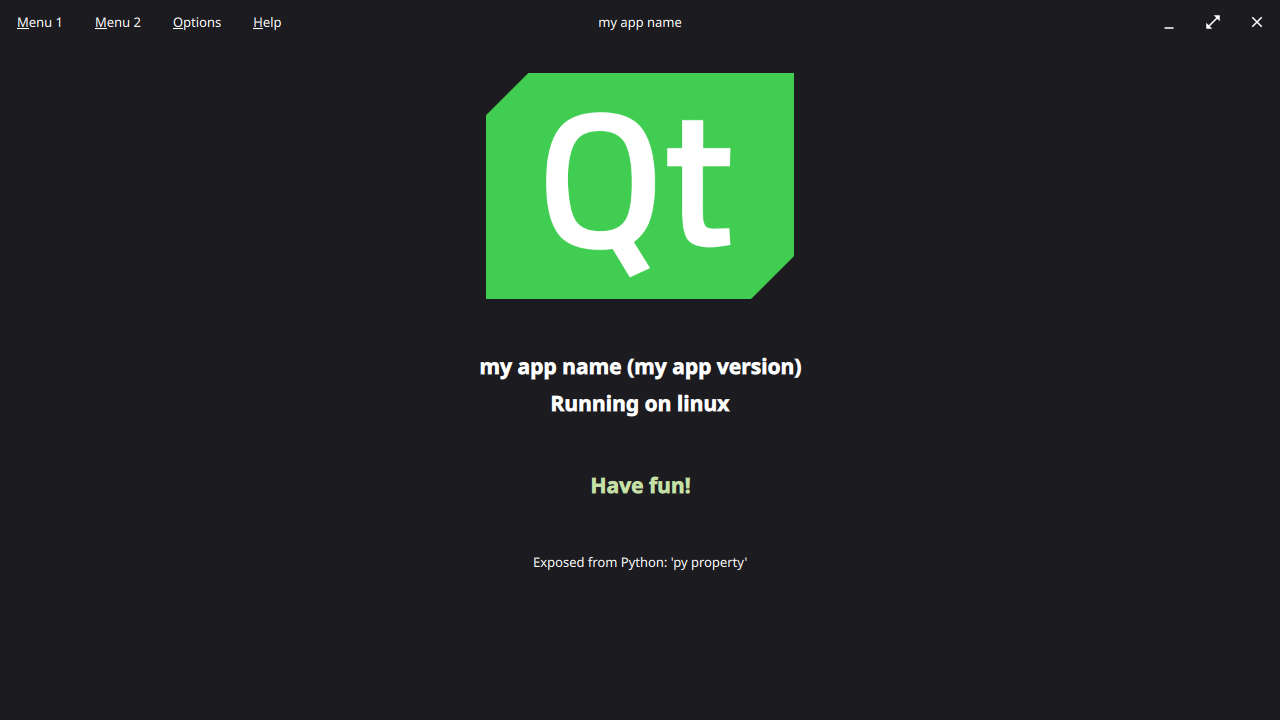
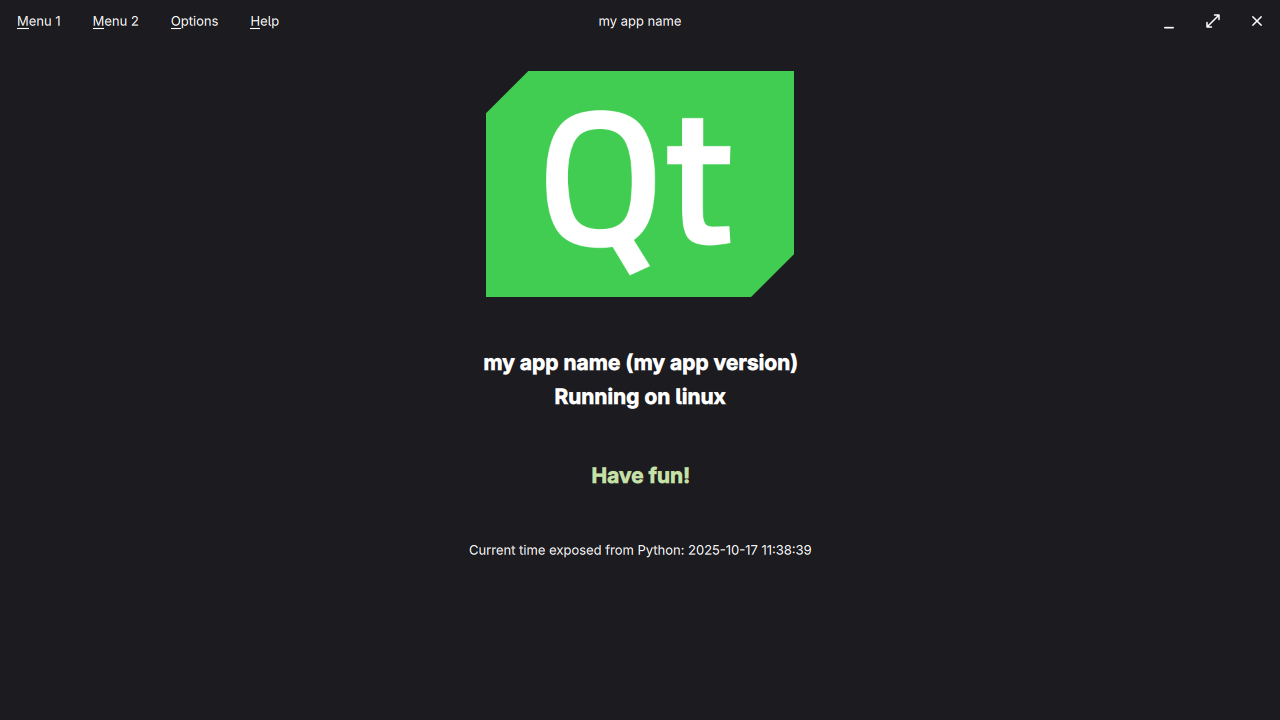
refactor: use a view model to drive main page

diff --git a/qt/qml/views/MyAppMainView.qml b/qt/qml/views/MyAppMainView.qml
@@ -11,6 +11,8 @@ import pyobjects
 Page {
     id: root
 
+    readonly property MyAppMainViewModel viewModel: MyAppMainViewModel {}
+
     anchors {
         fill: root
     }
@@ -66,7 +68,7 @@ Page {
         }
 
         Label {
-            text: qsTranslate("MainPage", "Exposed from Python: '%1'").arg(SingletonPyObject.exposed_property)
+            text: qsTranslate("MainPage", "Current time exposed from Python: %1").arg(root.viewModel.time)
 
             Layout.alignment: Qt.AlignHCenter
             Layout.topMargin: 45

diff --git a/qt/qml/main.qml b/qt/qml/main.qml
@@ -8,7 +8,6 @@ import QtQuick.Dialogs
 
 import pyobjects
 
-import "app"
 import "views"
 
 ApplicationWindow {
@@ -35,7 +34,7 @@ ApplicationWindow {
     LayoutMirroring.enabled: Qt.application.layoutDirection === Qt.RightToLeft
     LayoutMirroring.childrenInherit: true
 
-    MyAppMainPage {
+    MyAppMainView {
         header: MyAppHeaderView {
             viewModel: _headerViewModel
         }

diff --git a/src/viewmodels/main.py b/src/viewmodels/main.py
@@ -1,0 +1,37 @@
+# SPDX-FileCopyrightText: <Your Name>
+#
+# SPDX-License-Identifier: GPL-3.0-or-later
+
+from PySide6.QtCore import Property, QObject, Signal, QTimer, QDateTime
+from PySide6.QtQml import QmlElement
+
+QML_IMPORT_NAME = "pyobjects"
+QML_IMPORT_MAJOR_VERSION = 1
+
+
+@QmlElement
+class MyAppMainViewModel(QObject):
+    timeChanged = Signal(str)
+
+    def __init__(self):
+        super().__init__()
+        self._time = current_time()
+
+        self._timer = QTimer()
+        self._timer.timeout.connect(self._update_time)
+        self._timer.setInterval(1000)
+        self._timer.start()
+
+    @Property(str, notify=timeChanged)
+    def time(self) -> str:
+        return self._time
+
+    def _update_time(self):
+        update_time = current_time()
+        if self._time != update_time:
+            self._time = update_time
+            self.timeChanged.emit(update_time)
+
+
+def current_time() -> str:
+    return QDateTime.currentDateTime().toString("yyyy-MM-dd hh:mm:ss")

diff --git a/src/startup.py b/src/startup.py
@@ -7,7 +7,6 @@ import sys
 
 
 class StartUp:
-    """Necessary steps for environment, Python and Qt"""
 
     @staticmethod
     def configure_qt_application_data():
@@ -24,7 +23,6 @@ class StartUp:
 
     @staticmethod
     def import_bindings():
-        import src.pyobjects  # noqa: F401
         import src.viewmodels  # noqa: F401
 
     @staticmethod

diff --git a/src/viewmodels/__init__.py b/src/viewmodels/__init__.py
@@ -3,3 +3,4 @@
 # SPDX-License-Identifier: GPL-3.0-or-later
 
 from .header import MyAppHeaderViewModel
+from .main import MyAppMainViewModel
